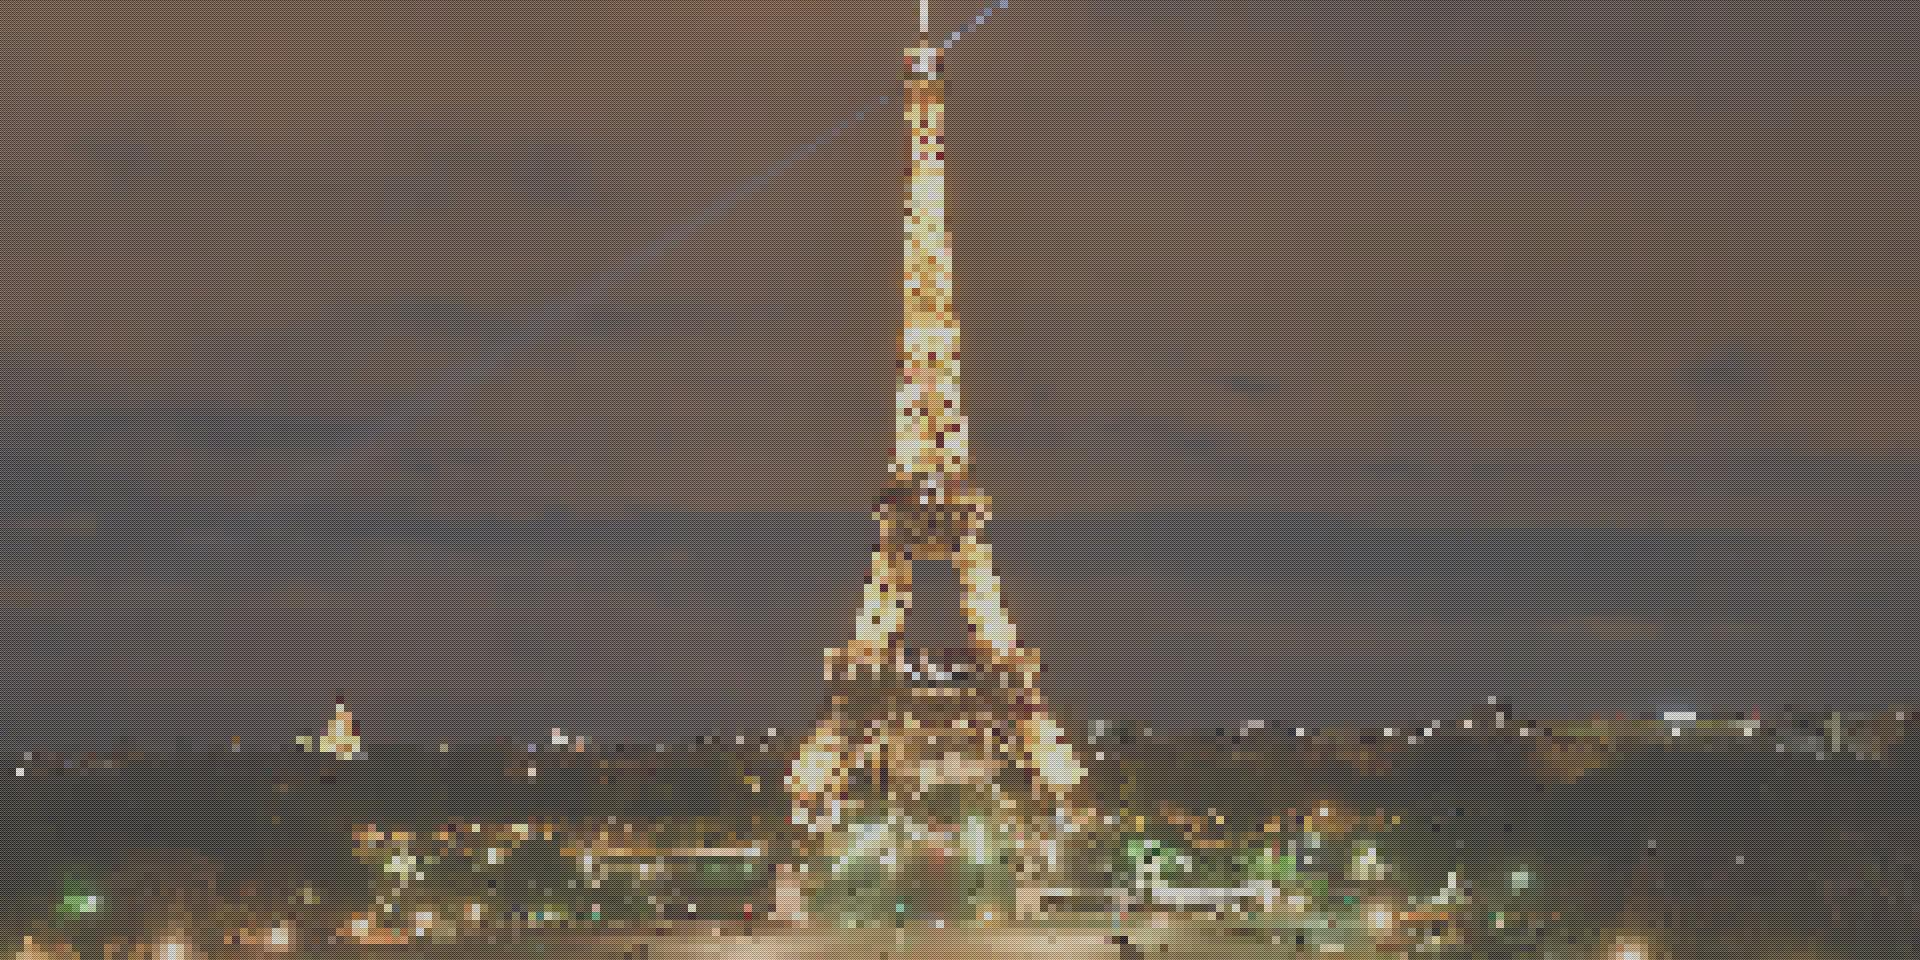
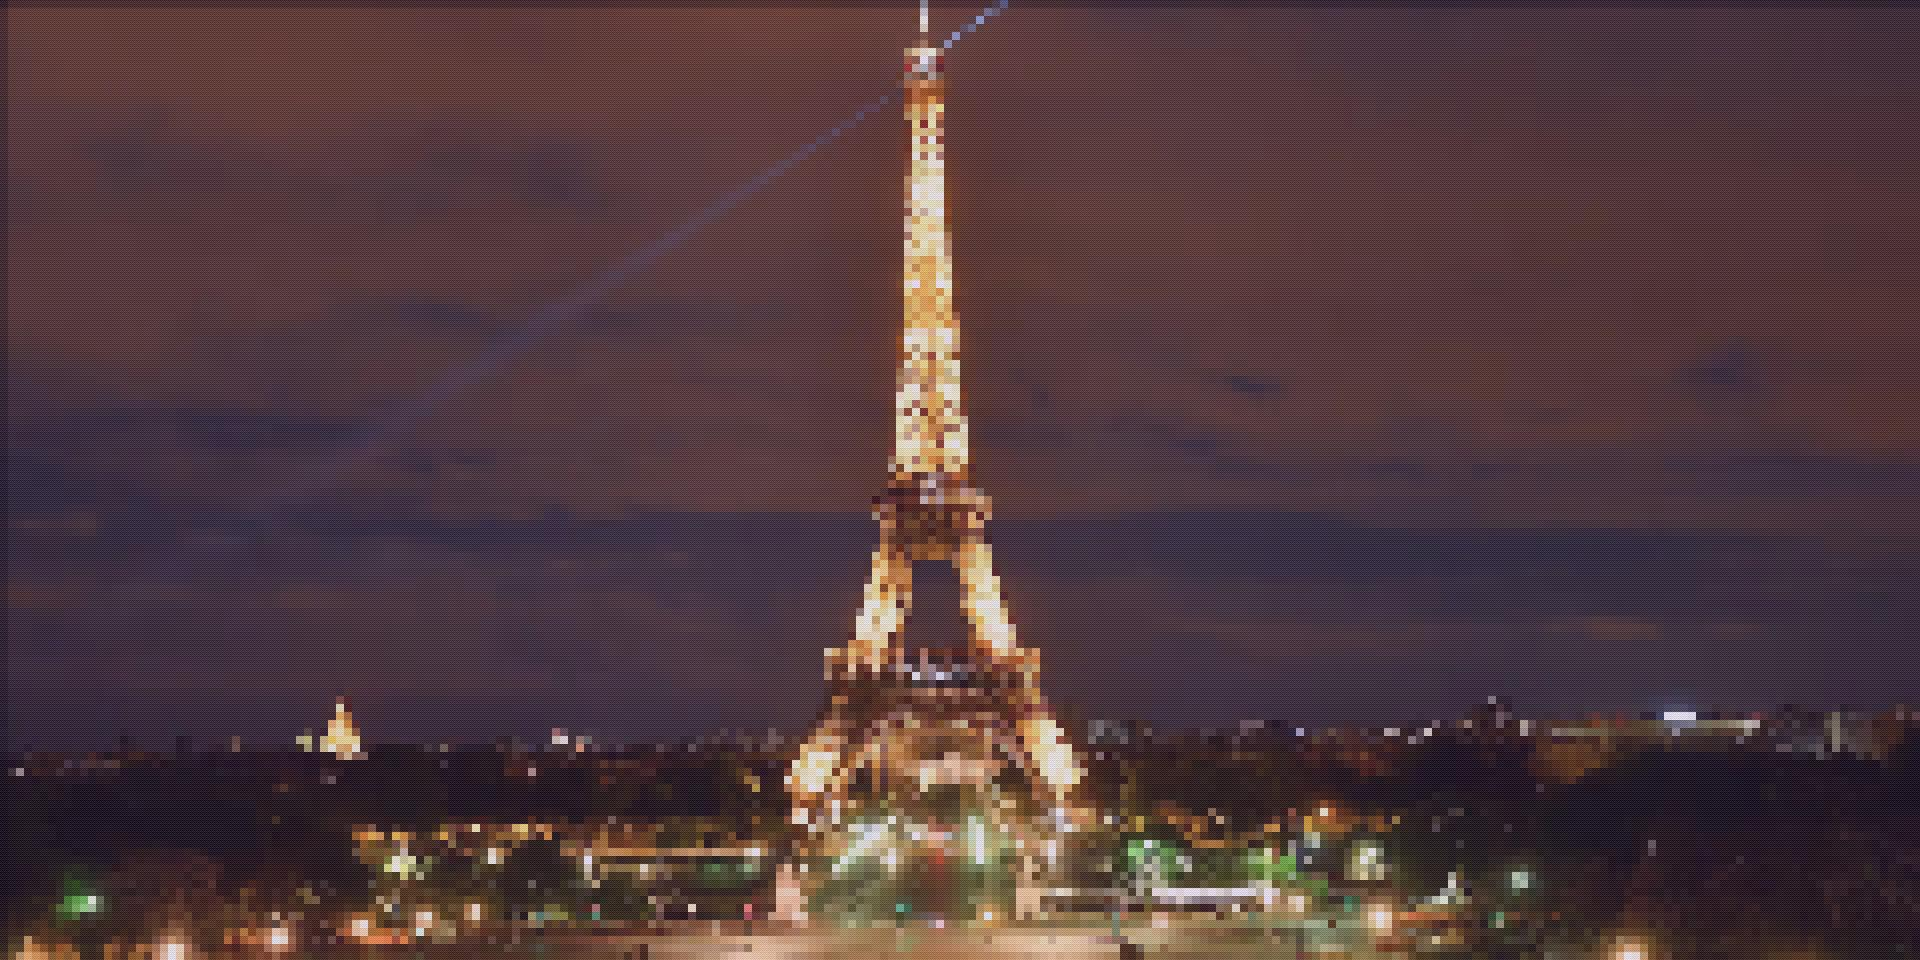
Created final results for display

diff --git a/Code/main.py b/Code/main.py
@@ -6,7 +6,7 @@ from PIL import Image
 """
 This implementation makes the following assumptions
 - Input images are RGB with 3 dimensional color values
-- Pallete Size Must equal NUMCOLORS
+- Pallete Size Must equal NUM_COLORS
 - Darkest colors will map to 1st color in palette & brightest colors will map to last color in palette
 """
 if __name__ == "__main__":
@@ -16,27 +16,27 @@ if __name__ == "__main__":
   output_dir = "../Results/"
 
   # Define input parameters file name
-  img_name = "eiffel-tower.jpg"
-  palette_name = "soft-pastels.png"
+  img_name = "wave.jpg"
+  palette_name = "deep-space.png"
 
   ### Define Constant Parameters ###
   SHARPNESS = 0.3
   RESIZE_FACTOR = 8
-  SPREAD = 0.5
-  NUMCOLORS = 16
+  SPREAD = 0.2
+  NUM_COLORS = 16
    
-  # Import or Define Color Palette (Note: NUMCOLORS must equal len(new_colors))
+  # Import or Define Color Palette (Note: NUM_COLORS must equal len(new_colors))
   if not palette_name:
     new_colors = np.array([[255, 173, 173], [255, 214, 165], [253, 255, 182], [202, 255, 191], [155, 246, 255], [160, 196, 255], [189, 178, 255], [255, 198, 255]], dtype=np.uint8)
 
-    assert NUMCOLORS == new_colors.shape[0], "NUMCOLORS should equal the number of new colors provided"
-    palette = np.zeros((100, 100 * NUMCOLORS, 3), dtype=np.uint8)
+    assert NUM_COLORS == new_colors.shape[0], "NUM_COLORS should equal the number of new colors provided"
+    palette = np.zeros((100, 100 * NUM_COLORS, 3), dtype=np.uint8)
     for i in range(new_colors.shape[0]):
       palette[:, i * 100:(i + 1) * 100, :] = new_colors[i]
-    Image.fromarray(palette, mode="RGB").save(f"{palette_dir}{NUMCOLORS}-color/beachside-breeze.png")
+    Image.fromarray(palette, mode="RGB").save(f"{palette_dir}{NUM_COLORS}-color/beachside-breeze.png")
     new_colors = (new_colors/255).astype(np.float32)
   else:
-    new_colors = np.array(Image.open(f"{palette_dir}{NUMCOLORS}-color/{palette_name}")).astype(np.uint8)
+    new_colors = np.array(Image.open(f"{palette_dir}{NUM_COLORS}-color/{palette_name}")).astype(np.uint8)
     new_colors = new_colors[:, :, :3]
     new_colors = new_colors.reshape(-1, 3)
     dtype = np.dtype([('r', 'u1'), ('g', 'u1'), ('b', 'u1')])
@@ -52,23 +52,26 @@ if __name__ == "__main__":
     img = (img/255).astype(np.float32)
 
   # 1st Sharpen Image BEFORE Applying Point Filtering
-  kernel = np.array([[             0, -1 * SHARPNESS,              0],
-                     [-1 * SHARPNESS,  4 * SHARPNESS, -1 * SHARPNESS],
-                     [             0, -1 * SHARPNESS,              0]], dtype=np.float32)
-  img0 = scipy.signal.convolve2d(img[:, :, 0], kernel, boundary='symm', mode='same')
-  img1 = scipy.signal.convolve2d(img[:, :, 1], kernel, boundary='symm', mode='same')
-  img2 = scipy.signal.convolve2d(img[:, :, 2], kernel, boundary='symm', mode='same')
-
-  convolved = np.stack([img0, img1, img2], axis=2)
-  img = (1 - SHARPNESS) * img + SHARPNESS * (img + convolved)
+  kernel = np.array([[             0, SHARPNESS * -1 ,             0],
+                     [SHARPNESS * -1, SHARPNESS * 4 , SHARPNESS * -1],
+                     [             0, SHARPNESS* -1 ,              0]], dtype=np.float32)
+  img0 = scipy.signal.convolve2d(img[:, :, 0], kernel, mode='same')
+  img1 = scipy.signal.convolve2d(img[:, :, 1], kernel, mode='same')
+  img2 = scipy.signal.convolve2d(img[:, :, 2], kernel, mode='same')
   
+  img0 = img0 - np.min(img0) if np.min(img0) < 0 else img0
+  img1 = img1 - np.min(img1) if np.min(img1) < 0 else img1
+  img2 = img2 - np.min(img2) if np.min(img2) < 0 else img2
+
+  #img = np.stack([img0, img1, img2], axis=2)
+  img = img - np.stack([img0, img1, img2], axis=2)
   # Perform normalization
   img = img - np.min(img) if np.min(img) < 0 else img
   img = img / np.max(img)
   img = np.clip(img, 0, 1)
   
   # Save sharpened image
-  # plt.imsave(output_dir + img_name[:-4] + "-sharpened.jpg", img)
+  plt.imsave(output_dir + img_name[:-4] + "-sharpened.jpg", img)
 
   # 2nd Downsample and Upsample Image Using Point Filtering
   # Define resize dimensions (Intensity of pixel art effect)
@@ -89,7 +92,7 @@ if __name__ == "__main__":
   img = img[orig_rows, orig_cols, :]
 
   # Save new downsampled/pixelated image
-  # plt.imsave(output_dir + img_name[:-4] + "-pixelated.jpg", img)
+  plt.imsave(output_dir + img_name[:-4] + "-pixelated.jpg", img)
 
   # 3rd Perform Bayer/Ordered Dithering to Add Noise
   # Define Bayer Dithering threshold map kernels
@@ -120,39 +123,39 @@ if __name__ == "__main__":
   img = np.clip(img, 0, 1)
 
   # Save newly dithered image
-  # plt.imsave(output_dir + img_name[:-4] + "-dithered.jpg", img)
+  plt.imsave(output_dir + img_name[:-4] + "-dithered.jpg", img)
 
   # 5th Use Luminance Method to Convert Image to Grayscale (0.299*R + 0.587*G + 0.114*B)
   grayscale = 0.299*img[:, :, 0] + 0.587*img[:, :, 1] + 0.114*img[:, :, 2]
 
-  # plt.imsave(output_dir + img_name[:-4] + "-grayscale.jpg", np.stack([grayscale, grayscale, grayscale], axis=2))
+  plt.imsave(output_dir + img_name[:-4] + "-grayscale.jpg", np.stack([grayscale, grayscale, grayscale], axis=2))
 
   # 4th Obtain New Color Palette
-  grayscale = np.floor(grayscale * (NUMCOLORS-1) + 0.5) / (NUMCOLORS-1)
+  grayscale = np.floor(grayscale * (NUM_COLORS-1) + 0.5) / (NUM_COLORS-1)
   unique_colors = np.unique(grayscale)
 
   # Replace colors
-  for i in range(NUMCOLORS):
+  for i in range(len(unique_colors)):
     img[grayscale == unique_colors[i]] = new_colors[i]
 
-  plt.imsave(output_dir + img_name[:-4] + "-final1.jpg", img)
+  plt.imsave(f'{output_dir}{img_name[:-4]}-{palette_name}-1.jpg', img)
   
   np.random.shuffle(new_colors)
   for i in range(len(unique_colors)):
     img[grayscale == unique_colors[i]] = new_colors[i]
 
-  plt.imsave(output_dir + img_name[:-4] + "-final2.jpg", img)
+  plt.imsave(f'{output_dir}{img_name[:-4]}-{palette_name}-2.jpg', img)
 
   np.random.shuffle(new_colors)
   for i in range(len(unique_colors)):
     img[grayscale == unique_colors[i]] = new_colors[i]
 
-  plt.imsave(output_dir + img_name[:-4] + "-final3.jpg", img)
+  plt.imsave(f'{output_dir}{img_name[:-4]}-{palette_name}-3.jpg', img)
 
   np.random.shuffle(new_colors)
   for i in range(len(unique_colors)):
     img[grayscale == unique_colors[i]] = new_colors[i]
 
-  plt.imsave(output_dir + img_name[:-4] + "-final4.jpg", img)
+  plt.imsave(f'{output_dir}{img_name[:-4]}-{palette_name}-4.jpg', img)
 
 
